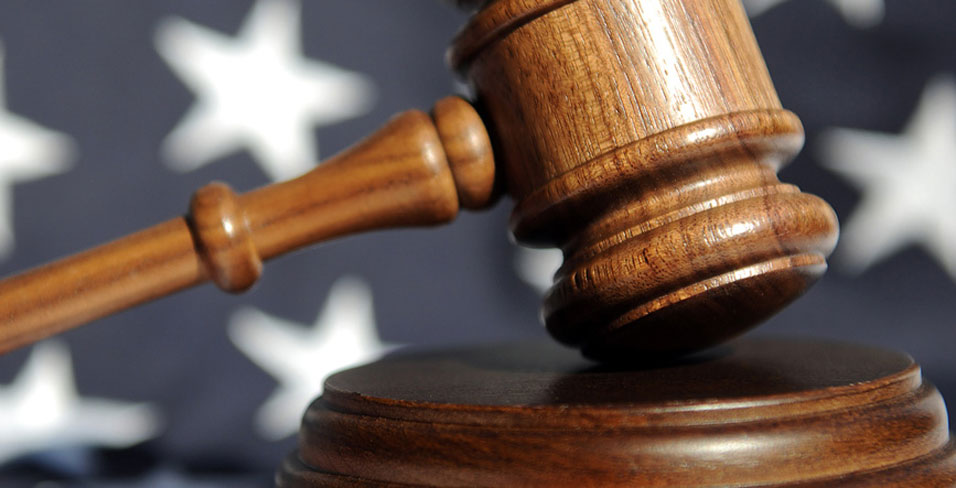
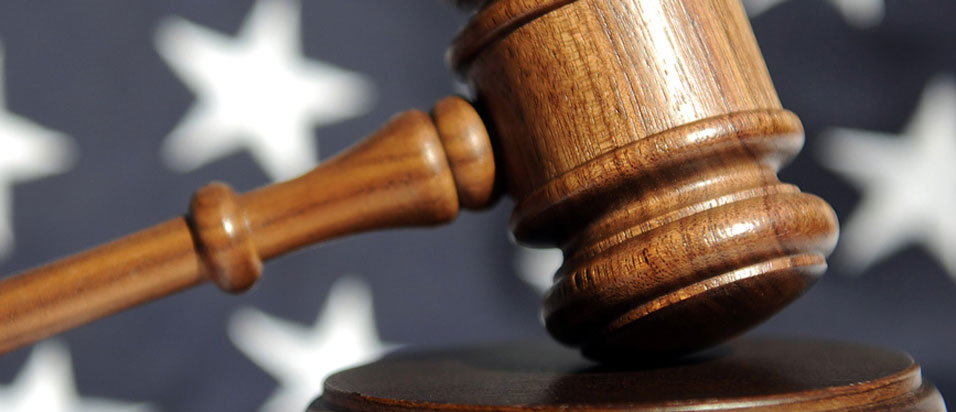
updated images

diff --git a/css/styles.scss b/css/styles.scss
@@ -8,11 +8,11 @@ body                        {background:#25241B; font-family:'Abel', arial, sans
   a                         {color:#8BA729;}
   .clear                    {clear:both;}
   .wrapper                  {margin:0 auto; width:996px; overflow:hidden; position:relative;}
-  header                    {padding:50px 0 0; width:100%; background:url('../images/header-tail.gif') repeat-x;
+  header                    {padding:50px 0 0; width:100%; background:url('../images/gradient-tile.png') repeat-x;
     h1                      {float:left;
       a                     {width:250px; height:85px; display:block; text-indent:-100%; font-size:0px; line-height:0px; background:url('../images/logo.png');}
     }
-    .info                   {color:#333225; font-size:12px; position:absolute; top:0px; right:0px;}              
+    .info                   {color:#A8B189; font-size:12px; position:absolute; top:0px; right:0px;}              
     ul                      {padding:60px 0 30px; float:right; list-style:none;
       li                    {padding:0 0 0 20px; float:left;
         a                   {color:#FFFFFF; text-transform:uppercase; text-decoration:none; font:22px 'Forum', serif; letter-spacing:2px; text-shadow: 1px 1px 0px #616051;
@@ -22,9 +22,9 @@ body                        {background:#25241B; font-family:'Abel', arial, sans
       }
     }
     .banner                 {clear:both; padding:20px 20px 0; background:url('../images/box-tail.gif') repeat; -moz-border-radius:15px 15px 0 0; border-radius:15px 15px 0 0;
-      #slides               {width:100%; height:488px; position:relative;
-        .slides_container   {width:956px; height:488px; overflow:hidden; position:relative; display:none;
-          .slide            {width:956px; height:488px; display:block;
+      #slides               {width:100%; height:412px; position:relative;
+        .slides_container   {width:956px; height:412px; overflow:hidden; position:relative; display:none;
+          .slide            {width:956px; height:412px; display:block;
             .caption        {z-index:500; position:absolute; bottom:-35px; left:0; height:30px; padding:5px 20px 0 20px; background:#000; background:rgba(0,0,0,.5); width:100%; font-size:1.3em; line-height:1.33; color:#fff; border-top:1px solid #000; text-shadow:none;}
           }
         }
@@ -72,14 +72,18 @@ body                        {background:#25241B; font-family:'Abel', arial, sans
   }
   footer                    {padding:0; width:100%;
     .wrapper                {padding:35px 0; width:916px;
-      .twitter              {margin:0 0 0 20px; width:32px; height:32px; display:block; float:right; background:url('../images/twitter.png');}
-      .facebook             {margin:0; width:32px; height:32px; display:block; float:right; background:url('../images/facebook.png');}
-      ol                    {padding:0 0 20px; width:28%; color:#A8B189; float:left;
+      .twitter              {margin:0 0 20px; width:32px; height:32px; display:block; float:left; background:url('../images/social.png') -0px -33px;
+        &:hover             {background-position:-33px -33px;}
+      }
+      .facebook             {margin:0 20px 20px 0; width:32px; height:32px; display:block; float:left; clear:left; background:url('../images/social.png') -0px -0px;
+        &:hover             {background-position:-33px 0;}
+      }
+      ol                    {margin:0; width:18%; color:#A8B189; float:right;
         li                  {list-style:none;
           span              {color:#575648; font:17px 'Forum', serif; letter-spacing:2px; text-transform:uppercase;}
         }
       }
-      ul                    {float:left; clear:both; list-style:none;
+      ul                    {padding:0 0 20px; float:left; list-style:none;
         li                  {padding:0 10px; float:left; border-left:1px solid #575648;
           &.first           {padding-left:0; border:none;}
           a                 {color:#8BA729; font-size:13px; text-decoration:none;
@@ -87,7 +91,7 @@ body                        {background:#25241B; font-family:'Abel', arial, sans
           }
         }
       }
-      p                     {color:#575648; font-size:13px; float:right;}
+      p                     {color:#575648; font-size:13px; float:left; clear:left;}
     }
   }
 }

diff --git a/css/styles.css b/css/styles.css
@@ -29,7 +29,7 @@ body {
   body header {
     padding: 50px 0 0;
     width: 100%;
-    background: url("../images/header-tail.gif") repeat-x; }
+    background: url("../images/gradient-tile.png") repeat-x; }
     body header h1 {
       float: left; }
       body header h1 a {
@@ -41,7 +41,7 @@ body {
         line-height: 0px;
         background: url("../images/logo.png"); }
     body header .info {
-      color: #333225;
+      color: #A8B189;
       font-size: 12px;
       position: absolute;
       top: 0px;
@@ -72,17 +72,17 @@ body {
       border-radius: 15px 15px 0 0; }
       body header .banner #slides {
         width: 100%;
-        height: 488px;
+        height: 412px;
         position: relative; }
         body header .banner #slides .slides_container {
           width: 956px;
-          height: 488px;
+          height: 412px;
           overflow: hidden;
           position: relative;
           display: none; }
           body header .banner #slides .slides_container .slide {
             width: 956px;
-            height: 488px;
+            height: 412px;
             display: block; }
             body header .banner #slides .slides_container .slide .caption {
               z-index: 500;
@@ -211,24 +211,29 @@ body {
       padding: 35px 0;
       width: 916px; }
       body footer .wrapper .twitter {
-        margin: 0 0 0 20px;
+        margin: 0 0 20px;
         width: 32px;
         height: 32px;
         display: block;
-        float: right;
-        background: url("../images/twitter.png"); }
+        float: left;
+        background: url("../images/social.png") 0px -33px; }
+        body footer .wrapper .twitter:hover {
+          background-position: -33px -33px; }
       body footer .wrapper .facebook {
-        margin: 0;
+        margin: 0 20px 20px 0;
         width: 32px;
         height: 32px;
         display: block;
-        float: right;
-        background: url("../images/facebook.png"); }
+        float: left;
+        clear: left;
+        background: url("../images/social.png") 0px 0px; }
+        body footer .wrapper .facebook:hover {
+          background-position: -33px 0; }
       body footer .wrapper ol {
-        padding: 0 0 20px;
-        width: 28%;
+        margin: 0;
+        width: 18%;
         color: #A8B189;
-        float: left; }
+        float: right; }
         body footer .wrapper ol li {
           list-style: none; }
           body footer .wrapper ol li span {
@@ -237,8 +242,8 @@ body {
             letter-spacing: 2px;
             text-transform: uppercase; }
       body footer .wrapper ul {
+        padding: 0 0 20px;
         float: left;
-        clear: both;
         list-style: none; }
         body footer .wrapper ul li {
           padding: 0 10px;
@@ -256,4 +261,5 @@ body {
       body footer .wrapper p {
         color: #575648;
         font-size: 13px;
-        float: right; }
+        float: left;
+        clear: left; }

diff --git a/index.html b/index.html
@@ -139,6 +139,15 @@
   </section>
   <footer>
     <div class="wrapper">
+      <ul>
+        <li class="first"><a href="index.html">Home</a></li>
+        <li><a href="#">Practices</a></li>
+        <li><a href="#">Attorneys</a></li>
+        <li><a href="#">Firm</a></li>
+        <li><a href="#">Faq</a></li>
+        <li><a href="#">Contact</a></li>
+        <li><a href="#">Site Map</a></li>
+      </ul>
       <ol>
         <li><span>Idaho Falls:</span></li>
         <li>208.525.8792</li>
@@ -152,18 +161,8 @@
         <li>Driggs, ID 83422</li>
         <li>PO Box 65</li>
       </ol>
-      <a href="#" class="twitter" target="_blank"></a>
       <a href="#" class="facebook" target="_blank"></a>
-      <div class="clear"></div>
-      <ul>
-        <li class="first"><a href="index.html">Home</a></li>
-        <li><a href="#">Practices</a></li>
-        <li><a href="#">Attorneys</a></li>
-        <li><a href="#">Firm</a></li>
-        <li><a href="#">Faq</a></li>
-        <li><a href="#">Contact</a></li>
-        <li><a href="#">Site Map</a></li>
-      </ul>
+      <a href="#" class="twitter" target="_blank"></a>
       <p>Copyright &copy; 2012 - Thompson Smith Woolf &amp; Anderson Law</p>
     </div>
   </footer>
